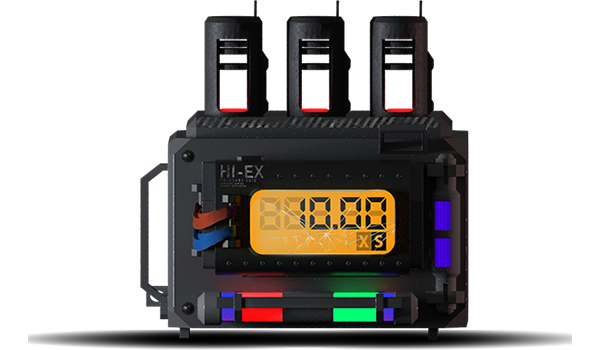
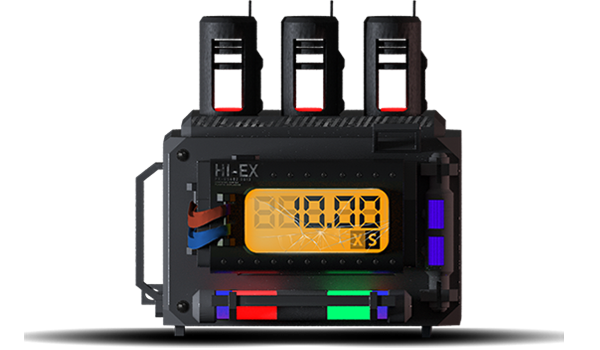
bomb animation

diff --git a/src/components/Pages/Index/index.jsx b/src/components/Pages/Index/index.jsx
@@ -17,6 +17,7 @@ import useMediaQuery from '@material-ui/core/useMediaQuery';
 import { useSkins } from '../../../lib/api/skins';
 import ExchangeSkin from './ExchangeSkin';
 import Statistic from './Statistic';
+import RateUpper from '../../RateUpper';
 
 function Index() {
   const theme = useTheme();
@@ -92,7 +93,7 @@ function Index() {
             pt={isMobileOrTablet && 3}
           >
             <Box
-                width={(isMobileOrTablet && 0.5) || (isXsDesktop && 1) || 1}
+              width={(isMobileOrTablet && 0.5) || (isXsDesktop && 1) || 1}
               pr={2}
               height={
                 (isMobileOrTablet && 'unset') || (isXsDesktop && 150) || 'unset'
@@ -106,19 +107,7 @@ function Index() {
                 'row'
               }
             >
-              <Box
-                width={isMobileOrTablet ? '100%' : '-webkit-fill-available'}
-                display="flex"
-                justifyContent="center"
-                alignItems="center"
-                fontWeight="700"
-                fontSize={isMobile ? 14 : 24}
-                color="white"
-                px={isMobileOrTablet && 1}
-                align="center"
-              >
-                {`${currentRate.toFixed(2)} X`}
-              </Box>
+              <RateUpper currentRate={currentRate} />
               <Chart startAnimation={isCountDown} currentRate={currentRate} />
             </Box>
             <Box mt={2.5} mb={1.5} pl={2}>
@@ -138,7 +127,7 @@ function Index() {
           justifyContent="space-between"
           flexDirection="column"
           position="relative"
-          pb={ isMobileOrTablet ? 0 : 10 }
+          pb={isMobileOrTablet ? 0 : 10}
         >
           <Bomb />
           {!isMobileOrTablet && (
@@ -153,7 +142,15 @@ function Index() {
             </Box>
           )}
           {!isMobileOrTablet && (
-              <Box display="flex" width={1} pl={4.1} pr={4.1} mb={1.5} alignItems="center" justifyContent="space-between">
+            <Box
+              display="flex"
+              width={1}
+              pl={4.1}
+              pr={4.1}
+              mb={1.5}
+              alignItems="center"
+              justifyContent="space-between"
+            >
               <BetHistory
                 my={1.5}
                 justifyContent="space-between"
@@ -312,11 +309,11 @@ function Index() {
               fontWeight="400"
             />
           </Box>
-          <Box width={isMobileOrTablet ? 1 : "calc(100% - 130px)"}>
+          <Box width={isMobileOrTablet ? 1 : 'calc(100% - 130px)'}>
             <Button
               w="100%"
               h="40px"
-              p={isMobileOrTablet ? "0 5px" : "0 26px"}
+              p={isMobileOrTablet ? '0 5px' : '0 26px'}
               bgcolor="#F89D00"
               onClick={() => handleBet(rate)}
               borderSize={0}

diff --git a/src/components/RateUpper/index.jsx b/src/components/RateUpper/index.jsx
@@ -1,0 +1,47 @@
+import React, { useEffect, useState } from 'react';
+import PropTypes from 'prop-types';
+import { Box } from '@material-ui/core';
+import useMediaQuery from '@material-ui/core/useMediaQuery';
+
+function RateUpper({ currentRate }) {
+  const isMobileOrTablet = useMediaQuery('(max-width: 959px)');
+  const isMobile = useMediaQuery('(max-width: 600px)');
+  const [rateToFinish, setRateToFinish] = useState(0);
+
+  useEffect(() => {
+    if (rateToFinish < currentRate) {
+      setTimeout(() => {
+        const step = currentRate / 100;
+        setRateToFinish(prevVal => prevVal + step);
+      }, 50);
+    } else if (rateToFinish !== currentRate) {
+      setRateToFinish(currentRate);
+    }
+  }, [rateToFinish]);
+
+  useEffect(() => {
+    setRateToFinish(0);
+  }, [currentRate]);
+
+  return (
+    <Box
+      width={isMobileOrTablet ? '100%' : '-webkit-fill-available'}
+      display="flex"
+      justifyContent="center"
+      alignItems="center"
+      fontWeight="700"
+      fontSize={isMobile ? 14 : 24}
+      color="white"
+      px={isMobileOrTablet && 1}
+      align="center"
+    >
+      {`${rateToFinish.toFixed(2)} X`}
+    </Box>
+  );
+}
+
+RateUpper.propTypes = {
+  currentRate: PropTypes.number.isRequired,
+};
+
+export default RateUpper;

diff --git a/src/components/Bomb/styles.module.scss b/src/components/Bomb/styles.module.scss
@@ -10,7 +10,7 @@
     height: 66px;
     border-radius: 10px;
     top: 189px;
-    margin-left: 44px;
+    margin-left: 36px;
     z-index: 11;
     .indicators {
       display: flex;
@@ -91,7 +91,7 @@
     position: absolute;
     width: 155px;
     top: 159px;
-    margin-right: -37px;
+    margin-right: -30px;
     z-index: 11;
   }
   .purpleFire {

diff --git a/src/components/Bomb/index.jsx b/src/components/Bomb/index.jsx
@@ -63,6 +63,7 @@ function Bomb() {
   }, [rateToFinish]);
 
   useEffect(() => {
+    setTimeToStart(0);
     setRateToFinish(0);
   }, [currentRate]);
 
